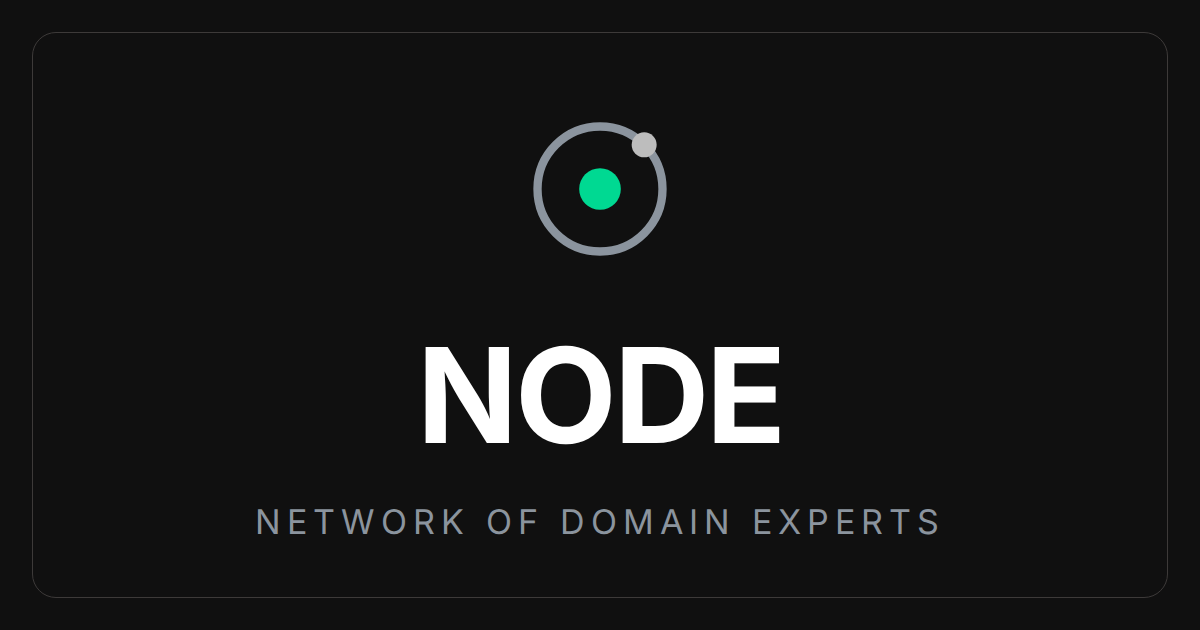
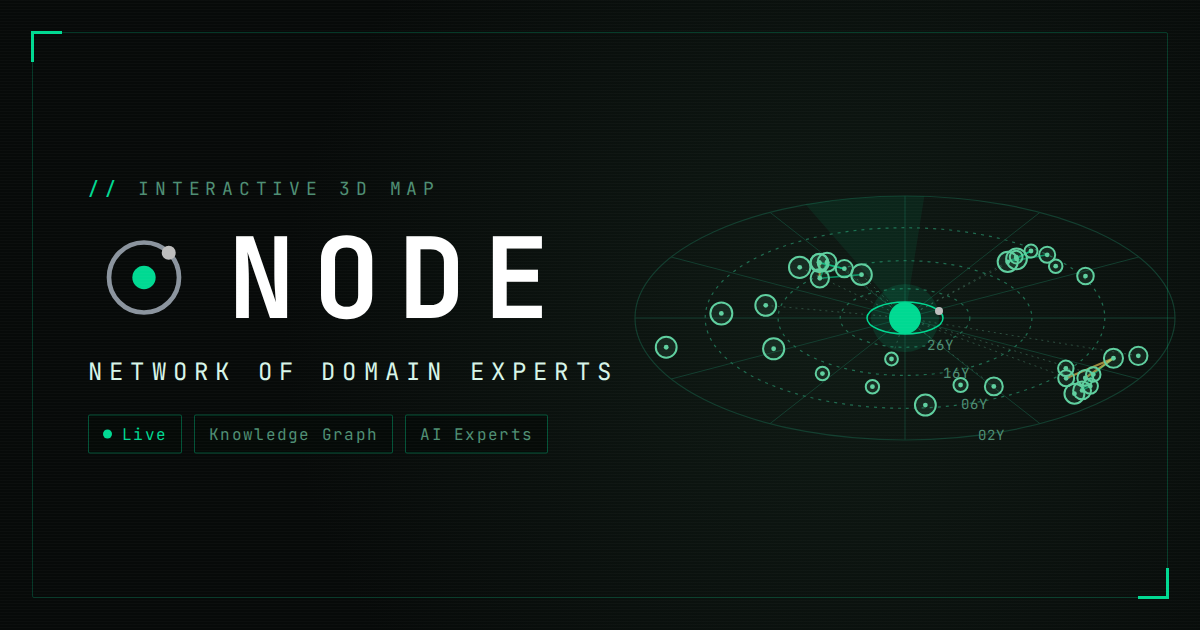
:art: OG 공유 이미지 HUD 디자인으로 갱신

diff --git a/assets/og/og-image.html b/assets/og/og-image.html
@@ -1,10 +1,14 @@
 <!DOCTYPE html>
 <!--
-  og-image.html — OG 공유 카드(1200×630)의 렌더 소스.
+  og-image.html — OG 공유 카드(1200×630)의 렌더 소스(Command HUD 디자인).
   서빙 대상은 og-image.png(이 파일을 chromium으로 캡처). 재생성:
     npx playwright screenshot --browser chromium --viewport-size 1200,630 \
       --wait-for-timeout 2500 file://<abs>/assets/og/og-image.html assets/og/og-image.png
-  색은 css/tokens.css 토큰 값과 동일(#101010 / #00d992 / #8b949e / #bdbdbd / #ffffff).
+  색은 css/tokens.css 토큰 값과 동일:
+    --hud-canvas #070a09 / --hud-canvas-glow #0f1a14 / --hud-grid #1f6b4f / --hud-grid-soft #123d2e
+    --hud-ink #d7f5e8 / --hud-dim #4f8f74 / --hud-blip #5fcf9f / --color-primary #00d992
+    --graph-collaboration #ffd65a / --color-mute #8b949e / --color-body #bdbdbd
+  인원수 등 변하는 수치는 넣지 않는다(공유 카드가 낡지 않도록).
 -->
 <html lang="ko">
   <head>
@@ -12,55 +16,194 @@
     <link rel="preconnect" href="https://fonts.googleapis.com" />
     <link rel="preconnect" href="https://fonts.gstatic.com" crossorigin />
     <link
-      href="https://fonts.googleapis.com/css2?family=Inter:wght@400;600;700&family=Noto+Sans+KR:wght@400;700&display=swap"
+      href="https://fonts.googleapis.com/css2?family=JetBrains+Mono:wght@400;500;700&display=swap"
       rel="stylesheet"
     />
     <style>
       * { margin: 0; padding: 0; box-sizing: border-box; }
       html, body { width: 1200px; height: 630px; }
       body {
-        background: #101010;
-        font-family: "Inter", "Noto Sans KR", system-ui, sans-serif;
-        display: flex;
-        flex-direction: column;
-        align-items: center;
-        justify-content: center;
-        gap: 40px;
         position: relative;
         overflow: hidden;
+        background: radial-gradient(circle at 70% 52%, #0f1a14 0%, #070a09 62%);
+        font-family: "JetBrains Mono", ui-monospace, monospace;
+        color: #d7f5e8;
       }
-      /* 은은한 외곽 하어라인 프레임 (드롭섀도 대신) */
+      /* 스캔라인 */
+      body::after {
+        content: "";
+        position: absolute;
+        inset: 0;
+        background: repeating-linear-gradient(to bottom, rgba(255, 255, 255, 0.02) 0 1px, transparent 1px 3px);
+      }
+      /* HUD 프레임 + 코너 브래킷 */
       .frame {
         position: absolute;
         inset: 32px;
-        border: 1px solid #3d3a39;
-        border-radius: 24px;
+        border: 1px solid rgba(0, 217, 146, 0.22);
+        border-radius: 2px;
       }
-      .mark { width: 200px; height: 200px; display: block; }
+      .frame::before,
+      .frame::after {
+        content: "";
+        position: absolute;
+        width: 28px;
+        height: 28px;
+        border: 3px solid #00d992;
+      }
+      .frame::before { top: -2px; left: -2px; border-right: 0; border-bottom: 0; }
+      .frame::after { bottom: -2px; right: -2px; border-left: 0; border-top: 0; }
+
+      .radar { position: absolute; inset: 0; }
+
+      .copy {
+        position: absolute;
+        left: 88px;
+        top: 50%;
+        transform: translateY(-50%);
+        display: flex;
+        flex-direction: column;
+        gap: 22px;
+      }
+      .eyebrow {
+        font-size: 18px;
+        letter-spacing: 0.32em;
+        text-transform: uppercase;
+        color: #4f8f74;
+      }
+      .eyebrow b { color: #00d992; font-weight: 500; }
+      .lockup { display: flex; align-items: center; gap: 28px; }
+      .mark { width: 112px; height: 112px; display: block; }
       .wordmark {
-        font-size: 132px;
+        font-size: 112px;
         font-weight: 700;
-        letter-spacing: -3px;
-        color: #ffffff;
+        letter-spacing: 0.16em;
         line-height: 1;
+        color: #ffffff;
       }
       .tagline {
-        font-size: 34px;
-        font-weight: 400;
-        letter-spacing: 6px;
+        font-size: 24px;
+        letter-spacing: 0.3em;
         text-transform: uppercase;
-        color: #8b949e;
+        color: #d7f5e8;
+      }
+      .status {
+        display: flex;
+        gap: 12px;
+        margin-top: 6px;
+      }
+      .chip {
+        padding: 8px 14px;
+        border: 1px solid rgba(0, 217, 146, 0.35);
+        border-radius: 2px;
+        font-size: 16px;
+        letter-spacing: 0.08em;
+        color: #4f8f74;
+        background: rgba(5, 10, 8, 0.8);
+      }
+      .chip.live { color: #00d992; }
+      .chip.live::before {
+        content: "";
+        display: inline-block;
+        width: 9px;
+        height: 9px;
+        margin-right: 10px;
+        border-radius: 50%;
+        background: #00d992;
+        vertical-align: 1px;
       }
     </style>
   </head>
   <body>
+    <svg class="radar" viewBox="0 0 1200 630" aria-hidden="true"></svg>
     <div class="frame"></div>
-    <svg class="mark" viewBox="0 0 48 48">
-      <circle cx="24" cy="24" r="15" fill="none" stroke="#8b949e" stroke-width="2" />
-      <circle cx="34.6" cy="13.4" r="3" fill="#bdbdbd" />
-      <circle cx="24" cy="24" r="5" fill="#00d992" />
-    </svg>
-    <div class="wordmark">NODE</div>
-    <div class="tagline">Network Of Domain Experts</div>
+
+    <div class="copy">
+      <p class="eyebrow"><b>//</b> Interactive 3D map</p>
+      <div class="lockup">
+        <svg class="mark" viewBox="0 0 48 48">
+          <circle cx="24" cy="24" r="15" fill="none" stroke="#8b949e" stroke-width="2" />
+          <circle cx="34.6" cy="13.4" r="3" fill="#bdbdbd" />
+          <circle cx="24" cy="24" r="5" fill="#00d992" />
+        </svg>
+        <div class="wordmark">NODE</div>
+      </div>
+      <p class="tagline">Network Of Domain Experts</p>
+      <div class="status">
+        <span class="chip live">Live</span>
+        <span class="chip">Knowledge Graph</span>
+        <span class="chip">AI Experts</span>
+      </div>
+    </div>
+
+    <script>
+      // 기울어진 레이더 원반(타원) + Blip 노드 + 허브 오빗. 시드 고정 난수로 항상 같은 그림.
+      const NS = "http://www.w3.org/2000/svg";
+      const svg = document.querySelector(".radar");
+      const el = (tag, attrs) => {
+        const e = document.createElementNS(NS, tag);
+        for (const [k, v] of Object.entries(attrs)) e.setAttribute(k, v);
+        svg.appendChild(e);
+        return e;
+      };
+      let seed = 7;
+      const rand = () => ((seed = (seed * 16807) % 2147483647) / 2147483647);
+
+      const C = { x: 905, y: 318, rx: 270, ry: 122 };
+      const at = (r, a) => [C.x + r * C.rx * Math.cos(a), C.y + r * C.ry * Math.sin(a)];
+
+      // 방사선 12섹터 + 연차 링
+      for (let i = 0; i < 12; i++) {
+        const [x, y] = at(1, (i / 12) * Math.PI * 2);
+        el("line", { x1: C.x, y1: C.y, x2: x, y2: y, stroke: "#123d2e", "stroke-width": 1 });
+      }
+      [0.24, 0.47, 0.74, 1].forEach((r, i) => {
+        el("ellipse", { cx: C.x, cy: C.y, rx: r * C.rx, ry: r * C.ry, fill: "none",
+          stroke: i === 3 ? "#123d2e" : "#1f6b4f", "stroke-width": 1.2, "stroke-dasharray": i === 3 ? "" : "3 5" });
+      });
+      // 스윕
+      const a0 = -Math.PI * 0.62, a1 = a0 + Math.PI / 7;
+      const [sx0, sy0] = at(1, a0), [sx1, sy1] = at(1, a1);
+      el("path", { d: `M${C.x},${C.y} L${sx0},${sy0} A${C.rx},${C.ry} 0 0 1 ${sx1},${sy1} Z`, fill: "rgba(0,217,146,0.08)" });
+
+      // Blip 노드(군집 3개 + 흩어진 노드)
+      const nodes = [];
+      const cluster = (r, a, n, spread) => {
+        for (let i = 0; i < n; i++) nodes.push([r + (rand() - 0.5) * spread, a + (rand() - 0.5) * spread * 2.2]);
+      };
+      cluster(0.5, -2.2, 7, 0.22);
+      cluster(0.8, 0.6, 8, 0.2);
+      cluster(0.66, -0.8, 6, 0.18);
+      for (let i = 0; i < 12; i++) nodes.push([0.3 + rand() * 0.68, rand() * Math.PI * 2]);
+      const pts = nodes.map(([r, a]) => at(r, a));
+
+      // 엣지: 같은 군집 내부(소속=그린, 일부 협업=골드)
+      const links = [[0, 1], [1, 2], [2, 3], [3, 4], [1, 5], [7, 8], [8, 9], [9, 10], [10, 12], [8, 13], [15, 16], [16, 17], [17, 19], [15, 18]];
+      links.forEach(([s, t], i) => {
+        el("line", { x1: pts[s][0], y1: pts[s][1], x2: pts[t][0], y2: pts[t][1],
+          stroke: i % 4 === 1 ? "#ffd65a" : "#00d992", "stroke-opacity": 0.6, "stroke-width": i % 4 === 1 ? 2.2 : 1.6 });
+      });
+      // 허브 점선 가이드(일부)
+      pts.forEach(([x, y], i) => {
+        if (i % 3 === 0) el("line", { x1: C.x, y1: C.y, x2: x, y2: y, stroke: "#4f8f74", "stroke-opacity": 0.45, "stroke-dasharray": "2 4" });
+      });
+      // Blip = 링 + 중심 점
+      pts.forEach(([x, y]) => {
+        const r = 6 + rand() * 5;
+        el("circle", { cx: x, cy: y, r, fill: "rgba(95,207,159,0.10)", stroke: "#5fcf9f", "stroke-width": 2 });
+        el("circle", { cx: x, cy: y, r: 2.4, fill: "#5fcf9f" });
+      });
+      // 허브 + 오빗 + 위성
+      el("circle", { cx: C.x, cy: C.y, r: 34, fill: "rgba(0,217,146,0.12)" });
+      el("circle", { cx: C.x, cy: C.y, r: 16, fill: "#00d992" });
+      el("ellipse", { cx: C.x, cy: C.y, rx: 38, ry: 16, fill: "none", stroke: "#00d992", "stroke-width": 1.5 });
+      el("circle", { cx: C.x + 34, cy: C.y - 7, r: 4, fill: "#bdbdbd" });
+      // 연차 눈금
+      [["26Y", 0.24], ["16Y", 0.47], ["06Y", 0.74], ["02Y", 1]].forEach(([t, r]) => {
+        const [x, y] = at(r, Math.PI * 0.42);
+        const tx = el("text", { x: x + 6, y: y + 4, fill: "#4f8f74", "font-size": 14, "font-family": "JetBrains Mono, monospace", "letter-spacing": 1 });
+        tx.textContent = t;
+      });
+    </script>
   </body>
 </html>
